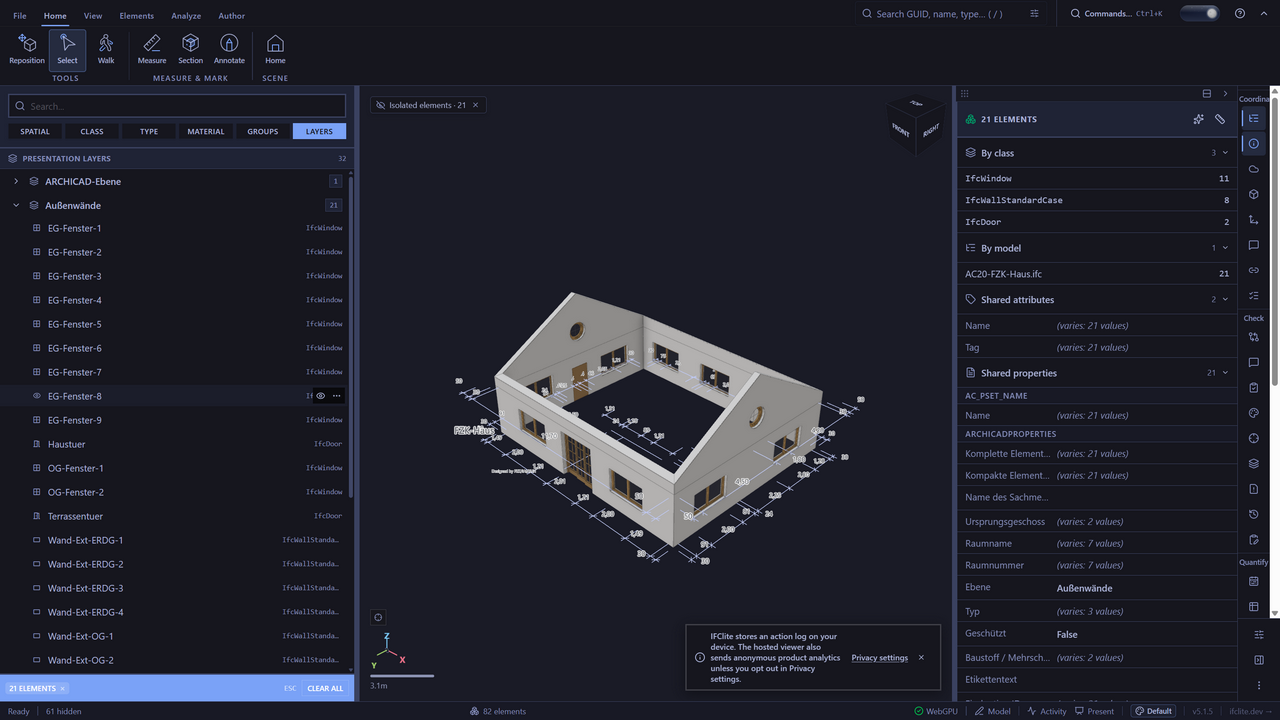
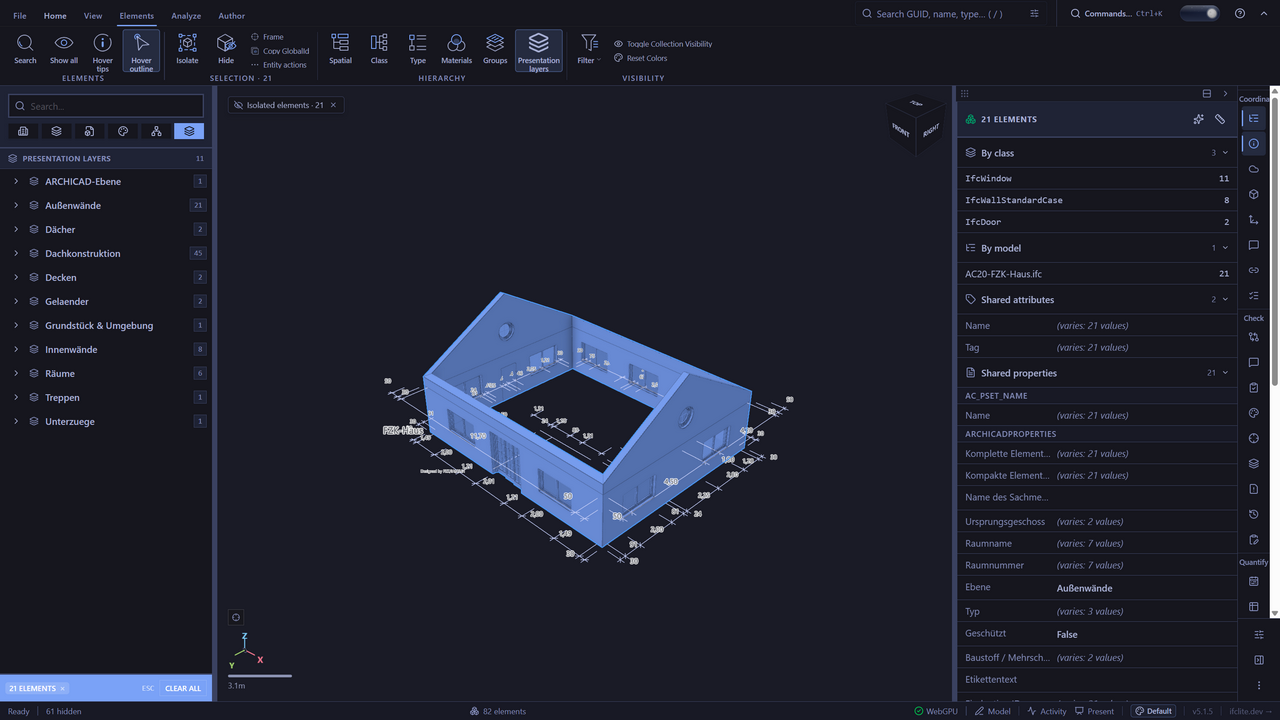
docs: finalize layer acceptance and deferred selection evidence

diff --git a/docs/architecture/evidence/presentation-layers-7619/README.md b/docs/architecture/evidence/presentation-layers-7619/README.md
@@ -24,36 +24,25 @@ Reuse hierarchy search, keyboard navigation, virtualization, outside-selection r
 
 One issue, one reviewable PR closing #7619. Link the PR to this thread immediately. Include validation, browser evidence, limitations, and review results in its description. Shepherd CI and review findings until ready. Merge only after required ruleset contexts succeed, actionable review findings are resolved, the final diff is reviewed, and evidence supports the behavior. Admin merge is authorized only when truly ready; never bypass an unresolved correctness failure. A main merge deploys through the repository's nightly production workflow.
 
-## Results
+## Final validation
 
-Validated on 2026-10-15 using the production viewer build and the original corpus Archicad fixture (2,526,511 bytes), loaded through the normal file-input handler. The collaborative preview ran over a temporary private Tailscale HTTPS proxy, with a secure context and WebGPU enabled. The browser client switched from macOS to Windows during acceptance; the final screenshots below are from the Windows client and the final production behavior. The last source cleanup removed an erased unused type-only import.
+Reviewed implementation: `e9d5c0cf28483e59ae21bc47b4d040ac16065e30`. The final production viewer (`main-DcPDPeUv.js`) was verified on 2026-10-15 in the collaborative browser over a temporary private HTTPS proxy, with a secure context and WebGPU. The original corpus Archicad fixture is 2,526,511 bytes and was loaded through the ordinary file-input handler.
 
-- Single model: 82 rendered elements; 11 presentation layers. Expanded `Außenwände` lists 21 products (8 walls, 11 windows, 2 doors). Clicking selects those products; the properties panel agrees on 21 elements. [Selected layer](selected-layer.png).
-- Hide reports 21 hidden and changes the control to `Show Außenwände`; Show restores them. Isolate shows the exterior walls/windows/doors with 61 other elements hidden. [Isolated layer](isolated-layer.png).
-- Search for `Wand-Ext-ERDG-1` finds the product under its collapsed layer; selecting it shows its real IFC properties. Clearing search restores the previous collapse.
-- Federation: load the same corpus bytes again with a distinct display filename through `file-input-add`. The viewer has 164 rendered elements and 22 assignment rows. Selecting the second `Außenwände` selects 21 products from `AC20-FZK-Haus-federated.ifc`, while its identically named first-model assignment stays unselected. [Federated selection](federated-selection.png).
-- Supplemental annotation regression: the original Archicad model has 14 curve-only annotations without presentation assignments. A derived variant adds only [one assignment line](annotation-layer-variant.txt) before the DATA section terminator, referring to their existing representations; its geometry is unchanged. The production viewer shows a new 14-product layer. Hide removes the actual dimension lines/text and shows `Hidden elements · 14`; Show restores them. [Shown](annotation-layer-shown.png) / [Hidden](annotation-layer-hidden.png). This added assignment is a regression variant, not an authored Archicad layer.
-- Checked icon-only tabs in a narrow sidebar and all six text labels in a sidebar wider than 480 CSS pixels. Keyboard resizing works. The tooltip and section title both read Presentation layers.
+- Single model: 11 presentation layers and 82 rendered elements. `Außenwände` selects 21 products (8 walls,11 windows,2 doors), matching the inspector. [Selected layer](selected-layer.png).
+- Hide reports 21 hidden and offers Show; Show restores them. Isolate leaves those exterior products visible with 61 others hidden. [Isolation](isolated-layer.png).
+- Search finds `Wand-Ext-ERDG-1` under a collapsed layer and selection displays its IFC properties; clearing search restores collapse. Narrow icon-only and wider six-label tab layouts were verified, including keyboard resizing and Presentation layers tooltip/title.
+- Federation: the same original bytes loaded again through `file-input-add` as `AC20-FZK-Haus-federated.ifc` produce22 layers/164 rendered elements. Selecting the second Außenwände selects21 from that model, while its first-model counterpart remains unselected. [Federation](federated-selection.png).
+- Supplemental annotation regression: the original model has14 curve-only annotations without layer assignments. A derived variant adds only [one assignment record](annotation-layer-variant.txt) to their existing representations. Browser Hide removes the actual dimensions/text and Show restores them, with82 meshes unchanged. [Shown](annotation-layer-shown.png) / [Hidden](annotation-layer-hidden.png).
+- Supplemental shape-aspect regression: a second variant adds only [three records](shape-aspect-variant.txt), reusing existing geometry. The browser layer expands/selects `Wand-Int-ERDG-4` and hides/restores exactly one product, with82 meshes unchanged. [Shape aspect](shape-aspect-selection.png). Both supplemental variants are explicitly derived regression fixtures, not authored Archicad assignments.
 
-Validation:
+Checks on the frozen source:
 
-- Root `pnpm typecheck`: all 126 turbo tasks succeeded; audit covers all 4,186 test files in 66 packages.
-- Root `TEST_PATTERN='presentation-layers|presentationLayerTree|rowSelection|HierarchyPanel.(search|reveal|i18n)|HierarchyNode|useEffectiveMaterialStores' pnpm test --filter=@ifc-lite/viewer --concurrency=2 --env-mode=loose`: 91/91 tests passed, none skipped. The dependent production build and chunk-await guard passed.
-- Module-size, localization literals, accessibility ratchet and type-scale gates passed. Root `pnpm lint` passed (10,763 files, 136 rules, no errors); existing warnings remain outside touched files.
-- Independent adversarial review repaired stale visibility labels, spatial-product isolation, shared IFCX attribution/readiness, invalid assignment seeds, nested representation ownership, and mutation decoding. Exact implementation review is recorded in [adversarial-review.md](adversarial-review.md).
+- Root turbo focused run: **93/93 tests passed, none skipped**, covering parsed STEP ownership, current mutations, bounded cycles, real corpus data, canonical ID spaces, shared IFCX aliases, assembly/annotation IDs and mounted hierarchy behavior. Command: `TEST_PATTERN='presentation-layers|presentationLayerTree|rowSelection|HierarchyPanel.(search|reveal|i18n)|HierarchyNode|useEffectiveMaterialStores' pnpm test --filter=@ifc-lite/viewer --concurrency=2 --env-mode=loose`.
+- Root `pnpm typecheck`:126 tasks passed; all4186 test files in66 packages are audited. Root `pnpm lint`:10763 files,136 rules, no errors; existing warnings remain outside touched files. Module-size gate:6147 files, no new oversized modules. Localization, accessibility and type-scale gates pass.
+- Production build and static chunk-await guard pass. [Raw bundle measurements](bundle-after-lazy.json) pin the frozen source and pass the **unchanged** ratchet ceilings. Resolver code is loaded on demand; only code is cached, never model data.
+- [Independent adversarial review](adversarial-review.md) pins the final source. Its finite native-geometry audit covers explicit generating geometry links while excluding shared frames/styles. Shared datastores deduplicate only within the same ID offset; actual-registry tests cover distinct spaces and shared IFCX zero-offset aliases.
+- Mounted progressive-loading tests suppress premature empty/search states, preserve available rows, settle failed/geometry-only models, and explicitly start with both models pending. Unresolved selections retry when their own metadata arrives without waiting for siblings; resolved targets retire, preserving manual collapse and cancelling stale requests after a tree click/deselect. Pending classification already includes `pending` in `isModelStreaming`.
 
-No Rust, geometry, parser, WASM or published-package sources changed; no perf-sensitive-path verdict or changeset is required. Browser validation used the published `@ifc-lite/wasm@10.4.0` runtime: local wasm-pack regeneration hit an existing wasm-bindgen installation/config error and the build explicitly fell back to the fetched runtime. CI remains responsible for its supported source-build/prebuilt eligibility gates; this evidence makes no local Rust-runtime equivalence claim.
+No Rust, parser, geometry, WASM or published-package sources changed; no changeset or perf-sensitive-path verdict is required. Local wasm-pack regeneration failed during existing wasm-bindgen setup, so browser/build validation used the fetched published `@ifc-lite/wasm@10.4.0` runtime. CI source-build gates remain required; this evidence makes no local Rust-runtime equivalence claim.
 
-The initial acceptance recording is retained locally and is not committed. A later recording could not be stopped/transferred after the preview client switched; it is not cited as evidence. The committed screenshots and automated checks are the portable evidence.
-
-Curve-only annotation owners reuse the existing annotation ID collection for layer hide/show. During isolation, symbolic annotation overlays retain their existing global visibility behavior; the new tab does not change overlay isolation semantics.
-
-The bundle ceiling caught eager resolver code on the first CI run. The Layers tab now imports its builder on demand, caches code only, and exposes loading/error/retry states. A mounted cold-load test switches away and back while loading and verifies that a held selection is revealed once ready. The rebuilt production browser again showed 11 authored layers, selected 21 Außenwände products, hid/restored 21, and isolated them with 61 hidden. [Final lazy-build isolation](lazy-build-isolation.png). The unchanged bundle ceilings pass locally; raw measurements are in [bundle-after-lazy.json](bundle-after-lazy.json).
-
-Final review found a missing `IfcShapeAspect` ownership route. The resolver now links aspect shape models to a validated `PartOfProductDefinitionShape` owner (`IfcProductDefinitionShape` or `IfcRepresentationMap`), per the [IFC schema](https://standards.buildingsmart.org/IFC/RELEASE/IFC4_3/HTML/lexical/IfcShapeAspect.htm). Three parsed regressions verify product and shared-map owners, invalid references and current edits/deletions/retypes. A second derived Archicad variant adds only [these three records](shape-aspect-variant.txt), reusing existing wall geometry. The production viewer lists the new layer, expands/selects `Wand-Int-ERDG-4`, hides exactly one product and restores it; rendered element count stays 82. [Shape-aspect browser evidence](shape-aspect-selection.png). This is a regression variant, not an authored Archicad assignment. Final source `1816e878b5` passed the 56-test focused run and root typecheck; the rebuilt bundle still passes unchanged ceilings.
-
-Final source `ac024da3df` also fixes nested generating-curve/profile ownership (including swept-disk directrices and IFC4/IFC4X3 curve wrappers) and mixed visibility actions. Parsed cases verify shared curve owners while excluding products that share the same point only through a placement; inherited operand sets are unioned. The mounted mixed-layer regression verifies Show restores all members before Hide hides them. The final 72-test run, root typecheck, lint and module-size gate passed. In the production browser on the original Archicad fixture, hiding `EG-Fenster-1` made `Außenwände` expose `Show Außenwände`; clicking restored the window, cleared the hidden count and changed both controls to Hide. Clicking the layer Hide then hid 21. [Mixed visibility browser evidence](mixed-visibility.png). The latest bundle measurement pins this final source and still passes unchanged ceilings.
-
-Final acceptance source: `63f74bc84c919788de91c7d5862d9c1621ef2077`. The finite native-geometry audit completed tessellated coordinates/faces, polygon/edge boundaries, spline control points and other supported generating geometry links, with parsed shared-owner, placement-exclusion and cycle/deletion cases. Metadata readiness now distinguishes active loads from settled empty/failed/non-IFC models, preserves available rows while siblings load, suppresses premature empty/search states, and retries outside-selection reveal as metadata arrives. Three mounted progressive-loading regressions cover those transitions. The frozen source passed 90/90 tests (no skips), root typecheck (126 tasks, all4186 test files audited), lint (10763 files, no errors), module-size (6147 files), localization/accessibility/type-scale gates and production chunk-await guard. A fresh production browser run of `main-DEmOrPc7.js` again verified 11 layers/82 elements, 21 selected Außenwände products and Hide/Show of exactly21. [Selected layer](selected-layer.png) now records this final build; the measurement JSON pins this final source.
-
-Final reviewed implementation: `ddf0fc50e0cb4be0367c9ed2d6e01159fc1b9840`. Shared datastores are deduplicated only within the same registered ID offset; a parsed actual-registry regression keeps shared-source models in distinct ID spaces separate, while the existing shared IFCX zero-offset regression still deduplicates aliases. Final root validation passes 91/91 tests with no skips,126 typecheck tasks/all4186 test files audited, lint10763files/noerrors, module6147files and unchanged bundle ceilings. The production browser running `main-wKh-u2Gm.js` reloaded the original Archicad file twice:22 layers/164elements; selecting the second Außenwände selected21 from `AC20-FZK-Haus-federated.ifc`, and the first assignment remained unselected. [Federated selection](federated-selection.png) records this final build. The measurement JSON and independent review report pin this final source.
+Symbolic annotation overlays retain their existing global isolation behavior. The new tab does not change overlay isolation semantics. The initial acceptance recording is retained locally and is not committed; a later recording could not be transferred after the preview client switched and is not cited. Committed screenshots, source tests and raw measurements are the portable evidence.
